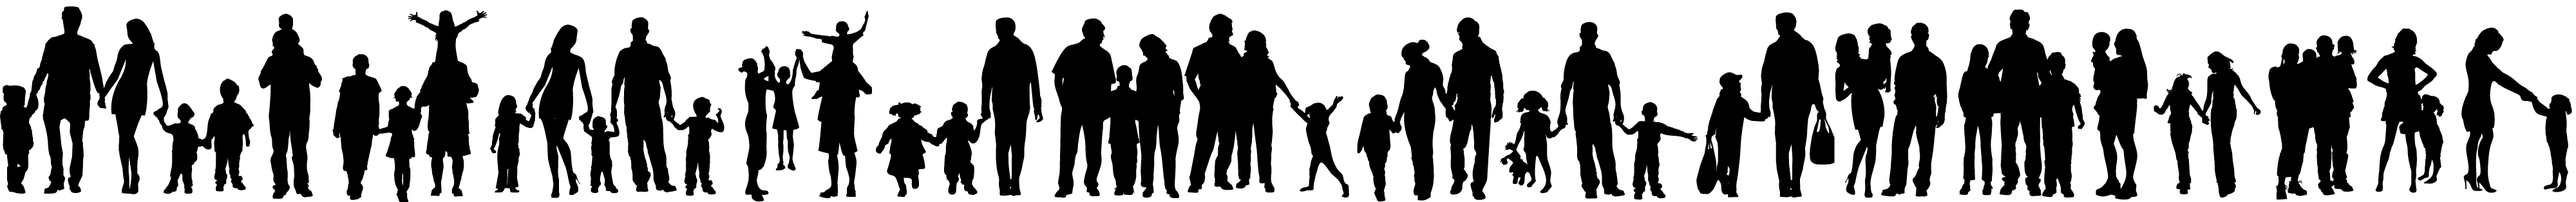
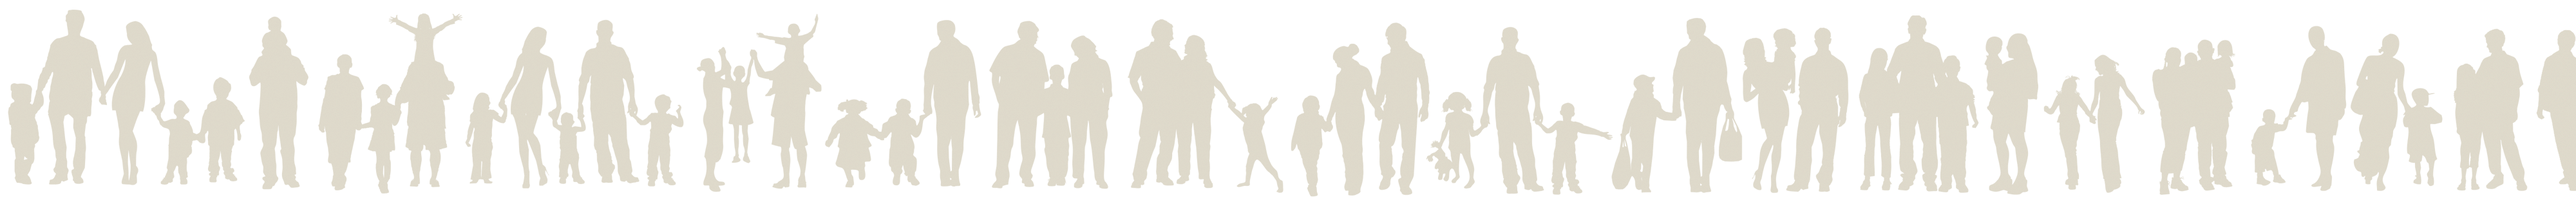
Fixed the parallax background by adding a second layer that shows contrast in motion. Now on to routing and content again...

diff --git a/client/familyhistorydatabase/app/views/nav.html b/client/familyhistorydatabase/app/views/nav.html
@@ -122,54 +122,42 @@
 <!-- JavaScript -->
 <!-- Custom JavaScript for the Side Menu -->
 <script>
-$("#menu-close").click(function(e) {
-  e.preventDefault();
-  $(".side-wrapper-nav").each(function() {
-    $(this).toggleClass("active");
+var closeMenu = function() {
+  var menuItems = $('.side-wrapper-nav');
+  var dropdownItems = $('#sidebar-wrapper ul li .dropdown.open .dropdown-toggle')
+  menuItems.each(function() {
+    $(this).removeClass('active');
   });
-  $(this).toggleClass('close-left');
-  // $('#menu-toggle').toggleClass('hideToggle');
-});
-</script>
-<script>
+  dropdownItems.each(function() {
+    $(this).dropdown('toggle');
+  });
+}
+var openMenu = function() {
+  var menuItems = $('.side-wrapper-nav');
+  menuItems.each(function() {
+    $(this).addClass('active');
+  });
+}
+
 $(document).ready(function() {
   $('#sidebar-wrapper').on('mouseleave', function(e) {
-    e.preventDefault();
-    $(".side-wrapper-nav").each(function() {
-      $(this).removeClass("active");
-    });
-    // $("#menu-close").toggleClass('close-left');
-    // $('#menu-toggle').toggleClass('hideToggle');
+    closeMenu();
   });
   $("#menu-toggle").on( 'click, mouseenter', function(e) {
-    e.stopPropagation();
-    $(".side-wrapper-nav").each(function() {
-      $(this).addClass("active");
-    });
-    // $(this).toggleClass('hideToggle');
-    // $("#menu-close").toggleClass('close-left');
+    // e.stopPropagation();
+    openMenu();
   });
   $(document).on('click', function(e) {
-    // if($('#sidebar-wrapper').attr('id') === $(e.target).attr('id')) {
-    //   e.stopPropagation();
-    // } else
     if (('menu-toggle' !== $(e.target).attr('id'))
       && ( 'sideNavSearch' !== $(e.target).attr('id'))
       && ( 'sidebar-brand' !== $(e.target).attr('id'))) {
-      $(".side-wrapper-nav").each(function() {
-        $(this).removeClass("active");
-      })
+      closeMenu();
       //
     } else {
       e.stopPropagation();
     }
   });
 
-
-  $("#navRightButton").on('click', function() {
-    e.stopPropagation();
-    $(".dropdown-toggle").dropdown('toggle');
-  });
 });
 </script>
 

diff --git a/client/familyhistorydatabase/app/views/background.html b/client/familyhistorydatabase/app/views/background.html
@@ -3,7 +3,10 @@
 
     <!-- parallax layers -->
     <div class="parallax-layer" style="height: 314px;">
-      <img src="images/family-back.png" alt="" style="position:absolute; top: 12px; margin-left: -2000px; left: 50%; opacity: .05"/>
+      <img src="images/family-back2.png" alt="" style="position:absolute; top: 0px; width: 3000px; height: auto; margin-left: -1500px; left: 50%; opacity: .04"/>
+    </div>
+    <div class="parallax-layer" style="height: 314px;">
+      <img src="images/family-back.png" alt="" style="position:absolute; top: 83px; width: 3000px; height: auto; margin-left: -1500px; left: 50%;"/>
     </div>
     <!-- <div class="parallax-layer" style="width:920px; height:274px;">
       <img src="images/parallax_sketch/1_mountains.png" alt="" style="left: 50%"/>

diff --git a/client/familyhistorydatabase/app/scripts/common/common.js b/client/familyhistorydatabase/app/scripts/common/common.js
@@ -59,7 +59,11 @@ function isEmpty(obj) {
 var setupParallax = function() {
   jQuery('#parallax .parallax-layer')
   .parallax({
-    xparallax: '100px',
+    xparallax: '125px',
+    mouseport: jQuery('body')
+  },
+  {
+    xparallax: '50px',
     mouseport: jQuery('body')
   });
 }
